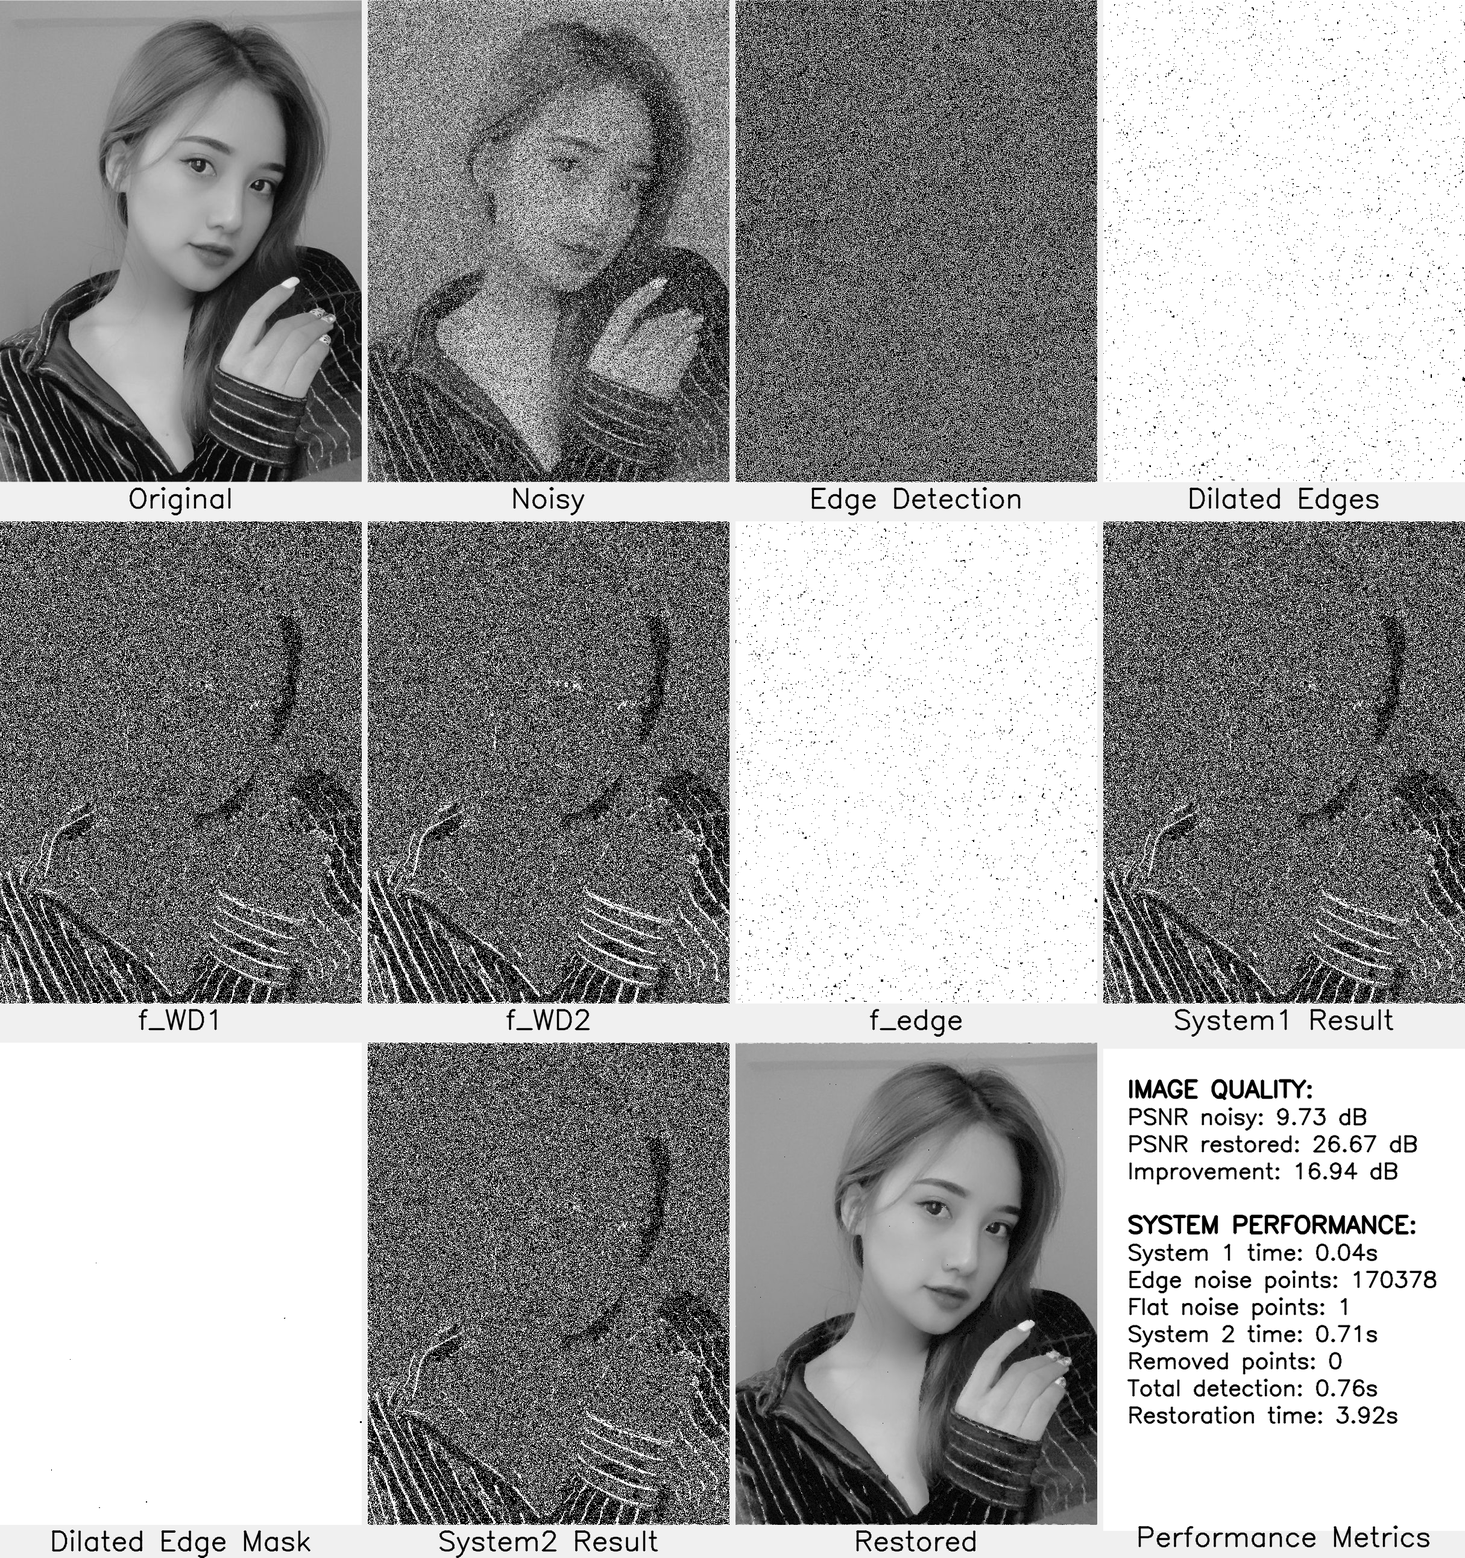
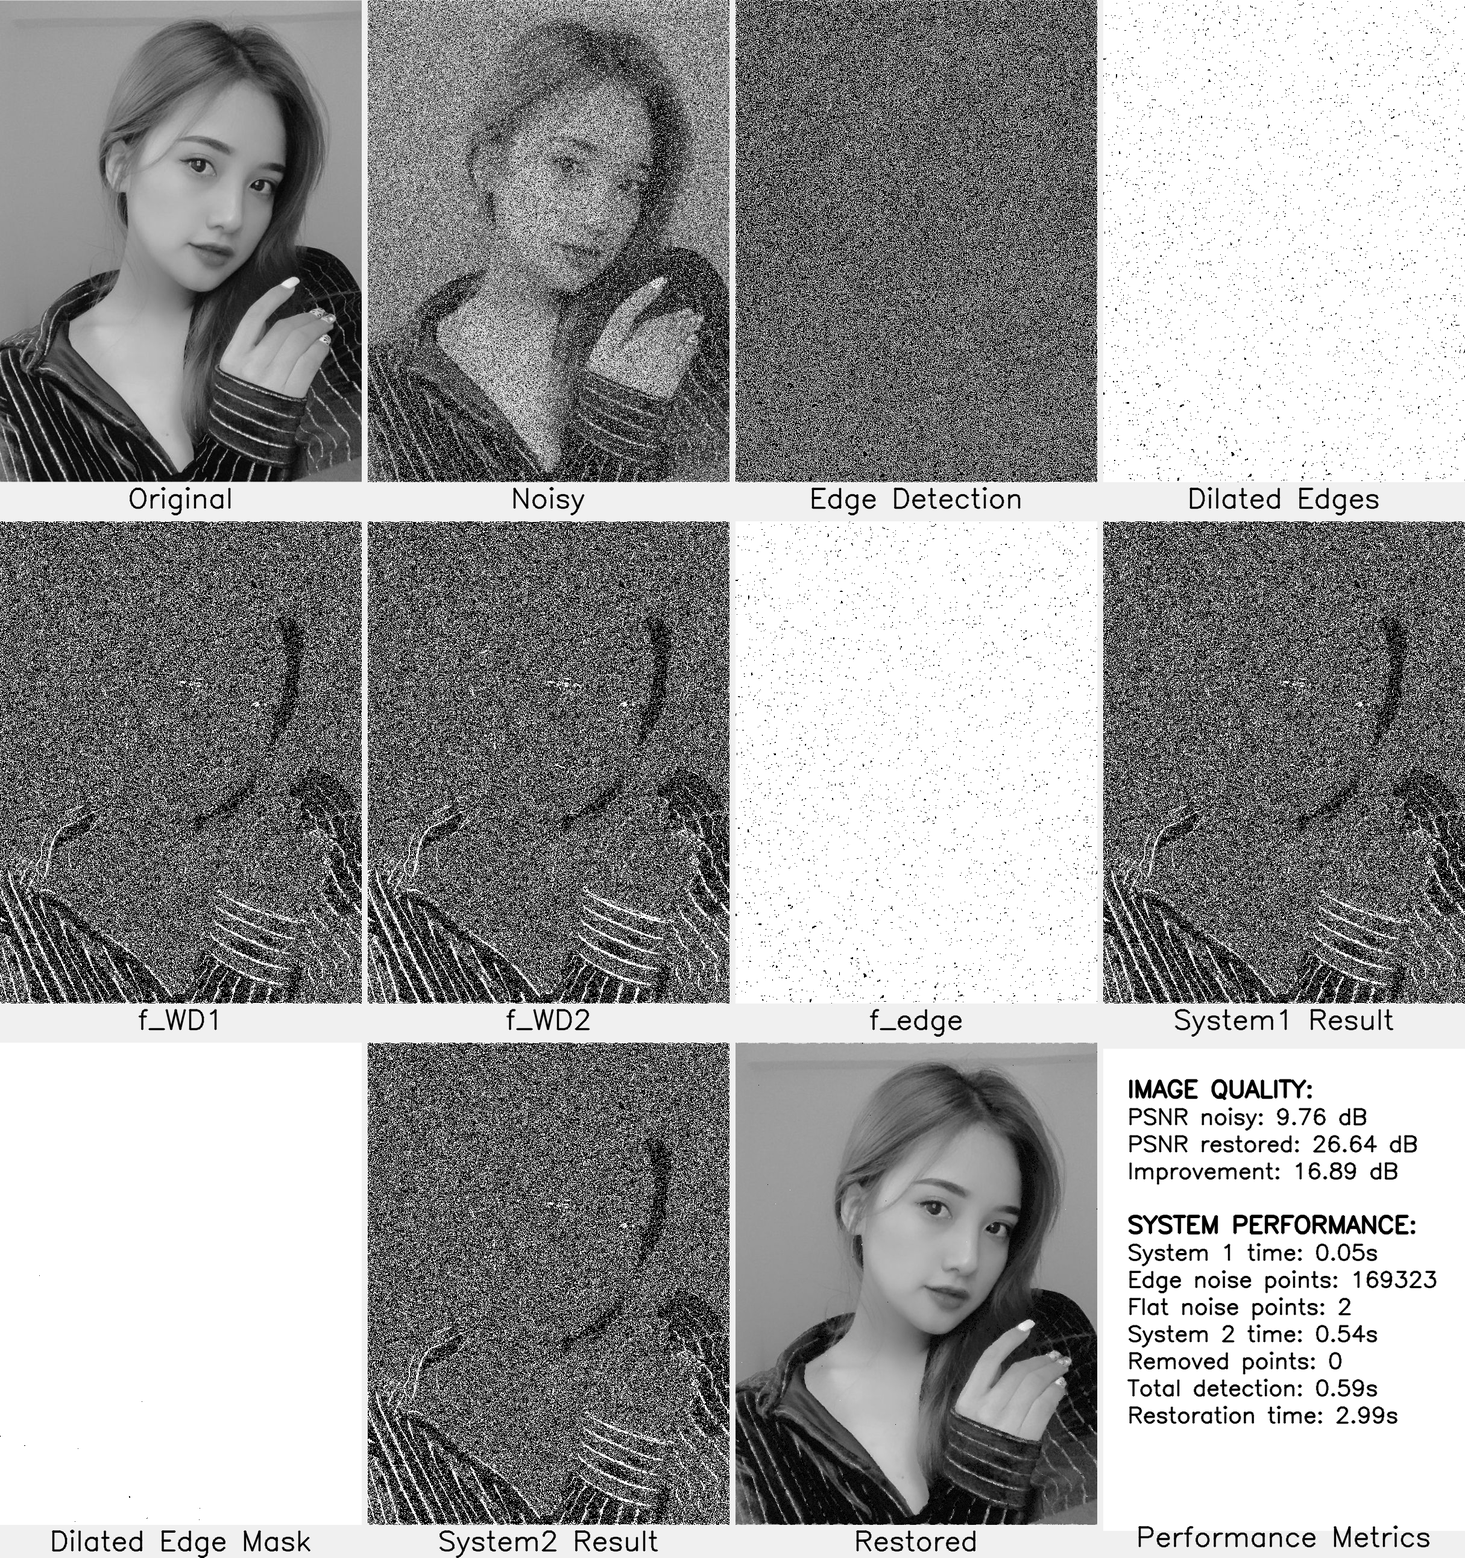
done

diff --git a/bestYYgpuSum.py b/bestYYgpuSum.py
@@ -19,20 +19,27 @@ system_info = {
     'total_detection_time': 0.0, # Thời gian phát hiện tổng thể nhiễu
     'restore_time': 0.0 # Thời gian khôi phục
 }
+
+# Khôi phục ảnh bằng bộ lọc trung vị (ảnh nhiễu - cờ nhiễu sau chạy 2 hệ thống - kích thước cửa sổ)
+#img: ảnh đầu vào (đơn vị la ảnh xám) 
+#noise_flag: cờ nhiễu (1 cho nhiễu, 0 cho không nhiễu)
+#window_size: kích thước cửa sổ (đơn vị là pixel)
 def fast_median_filter(img, noise_flag, window_size):
-    """Áp dụng bộ lọc trung vị tối ưu hóa"""
-    height, width = img.shape
-    half_window = window_size // 2
+    height, width = img.shape # Lấy kích thước ảnh
+    half_window = window_size // 2 # Tính kích thước nửa cửa sổ
     result = img.copy()  # Giữ các pixel không nhiễu nguyên vẹn
     
     # Lấy tọa độ các điểm nhiễu
     noise_points = np.where(noise_flag == 1)
+    # Tạo danh sách tọa độ cho các điểm nhiễu
     noise_coords = list(zip(noise_points[0], noise_points[1]))
     
     for i, j in noise_coords:
         # Xác định vùng cửa sổ
+        # i_min, i_max: giới hạn trên và dưới của hàng
         i_min = max(0, i - half_window)
         i_max = min(height, i + half_window + 1)
+        # j_min, j_max: giới hạn trái và phải của cột
         j_min = max(0, j - half_window)
         j_max = min(width, j + half_window + 1)
         
@@ -43,7 +50,7 @@ def fast_median_filter(img, noise_flag, window_size):
         # Lấy các pixel không nhiễu trong cửa sổ
         good_pixels = window[window_mask == 0]
         
-        # Nếu có pixel tốt, lấy giá trị trung vị
+        # Nếu có pixel tốt, lấy giá trị trung vị từ các pixel đó
         if len(good_pixels) > 0:
             result[i, j] = np.median(good_pixels)
         else:
@@ -52,15 +59,15 @@ def fast_median_filter(img, noise_flag, window_size):
     
     return result
 
-def create_noise_flag(img, filtered_img, threshold):
     """Tạo ảnh cờ nhiễu tối ưu hóa"""
+def create_noise_flag(img, filtered_img, threshold):
     diff = np.abs(img.astype(np.int32) - filtered_img.astype(np.int32))
     noise_flag = np.zeros_like(img, dtype=np.uint8)
     noise_flag[diff >= threshold] = 1
     return noise_flag
 
-def verify_edge_noise(img, f_noise, F_edge, TN, TC, TR, G=255):
     """Xác minh các điểm nhiễu trong vùng biên - phiên bản tối ưu"""
+def verify_edge_noise(img, f_noise, F_edge, TN, TC, TR, G=255):
     # Chuyển sang kiểu int32 để tránh tràn số
     img_int = img.astype(np.int32)
     F_noise = f_noise.copy()
@@ -161,99 +168,143 @@ class ImpulseNoiseDetector:
         # Tính ảnh cờ nhiễu
         return create_noise_flag(img, filtered_img, threshold)
     
-    def _system1(self, img):
+        def _system1(self, img):
         """
-        Triển khai Hệ thống 1 - Phát hiện nhiễu dựa trên ảnh cờ biên (phiên bản tối ưu).
+        Triển khai Hệ thống 1 - Phát hiện nhiễu dựa trên ảnh cờ biên.
+        Hệ thống này phân biệt giữa các vùng biên và vùng phẳng, 
+        sau đó áp dụng các cách phát hiện nhiễu khác nhau cho mỗi vùng.
         """
+        # Ghi lại thời điểm bắt đầu để đo thời gian thực hiện
         start_time = time.time()
         print("Bắt đầu Hệ thống 1...")
         
-        # Khởi tạo các ảnh ban đầu
+        # Lấy kích thước của ảnh đầu vào
         height, width = img.shape
         
-        # Tạo ảnh cờ nhiễu f_WD1 và f_WD2 trực tiếp - tối ưu hóa lớn
+        # BƯỚC 1: Tạo các ảnh cờ nhiễu cho vùng biên và vùng phẳng
         print("Tạo ảnh cờ nhiễu từ hai bộ lọc trung vị...")
+        # f_WD1: ảnh cờ nhiễu cho vùng biên - sử dụng cửa sổ lớn hơn (WD1)
+        # Hàm _create_noise_flag_PSM tạo cờ nhiễu dựa trên Peak-Signal-to-Median (PSM)
         f_WD1 = self._create_noise_flag_PSM(img, self.WD1, self.TD)
+        
+        # f_WD2: ảnh cờ nhiễu cho vùng phẳng - sử dụng cửa sổ nhỏ hơn (WD2)
+        # Phát hiện nhiễu trong vùng phẳng yêu cầu cửa sổ nhỏ hơn để tăng độ nhạy
         f_WD2 = self._create_noise_flag_PSM(img, self.WD2, self.TD)
         
-        # Tạo ảnh cờ biên sử dụng thuật toán Canny
+        # BƯỚC 2: Phát hiện biên trong ảnh
         print("Phát hiện biên bằng phương pháp thay thế...")
+        # Sử dụng thuật toán Canny để phát hiện biên - một thuật toán phát hiện biên phổ biến
+        # Các tham số 50, 150 là ngưỡng thấp và cao cho thuật toán Canny
         edges = cv2.Canny(img, 50, 150)
         
-        # Dãn nở cạnh để bao phủ vùng biên tốt hơn
+        # BƯỚC 3: Dãn nở biên để bao phủ vùng biên tốt hơn
+        # Tạo kernel 3x3 cho phép toán dãn nở
         kernel = np.ones((3, 3), np.uint8)
+        # Dãn nở biên để đảm bảo không bỏ sót các điểm biên
         edges_dilated = cv2.dilate(edges, kernel, iterations=1)
         
-        # Ánh xạ kết quả phát hiện biên sang ảnh cờ biên
+        # BƯỚC 4: Tạo ảnh cờ biên (edge flag)
+        # Ảnh cờ biên là ảnh nhị phân: 1 cho điểm biên, 0 cho điểm không phải biên
         f_edge = np.zeros_like(img, dtype=np.uint8)
+        # Đặt giá trị 1 cho tất cả các điểm trong ảnh đã dãn nở
         f_edge[edges_dilated > 0] = 1
         
-        # Tạo ảnh cờ nhiễu cuối cùng theo phương trình (9)
+        # BƯỚC 5: Kết hợp hai ảnh cờ nhiễu dựa trên ảnh cờ biên
+        # Tạo ảnh cờ nhiễu cuối cùng theo phương trình (9) của thuật toán
         f_noise = np.zeros_like(img, dtype=np.uint8)
-        f_noise[f_edge == 1] = f_WD1[f_edge == 1]  # Vùng biên
-        f_noise[f_edge == 0] = f_WD2[f_edge == 0]  # Vùng phẳng
+        # Đối với vùng biên (f_edge == 1), sử dụng kết quả từ f_WD1
+        f_noise[f_edge == 1] = f_WD1[f_edge == 1]
+        # Đối với vùng phẳng (f_edge == 0), sử dụng kết quả từ f_WD2
+        f_noise[f_edge == 0] = f_WD2[f_edge == 0]
         
-        # Lưu kết quả trung gian
-        self.intermediate_results['edge_detection'] = edges
-        self.intermediate_results['dilated_edges'] = edges_dilated
-        self.intermediate_results['f_WD1'] = f_WD1 * 255  # Nhân với 255 để dễ nhìn
-        self.intermediate_results['f_WD2'] = f_WD2 * 255  # Nhân với 255 để dễ nhìn
-        self.intermediate_results['f_edge'] = f_edge * 255  # Nhân với 255 để dễ nhìn
-        self.intermediate_results['system1_result'] = f_noise * 255  # Nhân với 255 để dễ nhìn
+        # BƯỚC 6: Lưu các kết quả trung gian để hiển thị và đánh giá
+        # Lưu các ảnh với hệ số nhân 255 để dễ nhìn (chuyển từ nhị phân [0,1] sang [0,255])
+        self.intermediate_results['edge_detection'] = edges  # Kết quả phát hiện biên gốc
+        self.intermediate_results['dilated_edges'] = edges_dilated  # Kết quả sau khi dãn nở biên
+        self.intermediate_results['f_WD1'] = f_WD1 * 255  # Cờ nhiễu cho vùng biên
+        self.intermediate_results['f_WD2'] = f_WD2 * 255  # Cờ nhiễu cho vùng phẳng
+        self.intermediate_results['f_edge'] = f_edge * 255  # Cờ biên
+        self.intermediate_results['system1_result'] = f_noise * 255  # Kết quả cuối cùng của Hệ thống 1
+        
+        # Tính thời gian thực hiện và hiển thị
         time_taken = time.time() - start_time
         print(f"Hoàn thành Hệ thống 1 trong {time_taken:.2f} giây")
-        # lưu thời gian hệ thống 1
+        
+        # Cập nhật thông tin thời gian cho mục đích đánh giá hiệu suất
         system_info['system1_time'] = time_taken
+        
+        # Trả về hai kết quả: ảnh cờ nhiễu và ảnh cờ biên để sử dụng trong Hệ thống 2
         return f_noise, f_edge
     
+
     def _system2(self, img, f_noise, f_edge):
-        """
-        Triển khai Hệ thống 2 - Hệ thống xác minh (phiên bản tối ưu).
-        """
+        # Bắt đầu đếm thời gian cho Hệ thống 2
         start_time = time.time()
         print("Bắt đầu Hệ thống 2 - Xác minh kết quả từ Hệ thống 1...")
         
-        # Dãn nở ảnh cờ biên để xác định vùng biên rộng hơn
+        # Tạo kernel 3x3 đặc (toàn 1) để thực hiện phép dãn nở
         kernel = np.ones((3, 3), dtype=np.uint8)
+        
+        # Dãn nở ảnh cờ biên để tạo vùng biên rộng hơn
+        # Mục đích: Tạo một vùng đệm xung quanh biên để đảm bảo không bỏ sót điểm biên
         F_edge = cv2.dilate(f_edge, kernel, iterations=1)
         
-        # Đếm số lượng điểm cần xác minh
+        # Đếm số lượng điểm nhiễu trong vùng biên (điểm được đánh dấu là nhiễu và nằm trong vùng biên)
+        # Sử dụng phép AND logic: (f_noise == 1) & (F_edge == 1)
         num_edge_noise = np.sum((f_noise == 1) & (F_edge == 1))
+        
+        # Đếm số lượng điểm nhiễu trong vùng phẳng (điểm được đánh dấu là nhiễu nhưng không thuộc vùng biên)
+        # Sử dụng phép AND logic: (f_noise == 1) & (F_edge == 0)
         num_flat_noise = np.sum((f_noise == 1) & (F_edge == 0))
-
-        # Lưu số lượng điểm nhiễu
+    
+        # Lưu thông tin số lượng nhiễu vào biến toàn cục để hiển thị trong báo cáo
         system_info['edge_noise_count'] = num_edge_noise
         system_info['flat_noise_count'] = num_flat_noise
+        
+        # Hiển thị thông tin về số lượng nhiễu để theo dõi
         print(f"Có {num_edge_noise} điểm nhiễu trong vùng biên cần xác minh")
         print(f"Có {num_flat_noise} điểm nhiễu trong vùng phẳng để so sánh")
         
-        # Lưu kết quả trung gian
-        self.intermediate_results['dilated_edge_mask'] = F_edge * 255  # Nhân với 255 để dễ nhìn
+        # Lưu kết quả trung gian vào danh sách các ảnh trung gian để hiển thị
+        # Nhân với 255 để chuyển từ ảnh nhị phân [0,1] sang dạng [0,255] dễ nhìn
+        self.intermediate_results['dilated_edge_mask'] = F_edge * 255
         
-        # Sử dụng hàm tối ưu hóa để xác minh điểm nhiễu
+        # Thực hiện xác minh nhiễu bằng hàm verify_edge_noise (đã được tối ưu hóa)
         print("Xác minh các điểm nhiễu bằng phương pháp vector hóa...")
+        
+        # Gọi hàm verify_edge_noise với các tham số:
+        # - img: ảnh gốc
+        # - f_noise: ảnh cờ nhiễu từ Hệ thống 1
+        # - F_edge: ảnh cờ biên đã dãn nở
+        # - self.TN: ngưỡng hiệu cường độ để xác định nhiễu
+        # - self.TC: số lượng tối thiểu điểm nhiễu trong vùng phẳng để so sánh
+        # - self.TR: tỷ lệ điểm cần thỏa mãn để xác minh
         F_noise, removed_count = verify_edge_noise(
             img, f_noise, F_edge,
             self.TN, self.TC, self.TR
         )
         
-        # Lưu kết quả trung gian
-        self.intermediate_results['system2_result'] = F_noise * 255  # Nhân với 255 để dễ nhìn
+        # Lưu kết quả cuối cùng của Hệ thống 2 để hiển thị
+        self.intermediate_results['system2_result'] = F_noise * 255
+        
+        # Hiển thị số lượng điểm nhiễu đã bị loại bỏ sau khi xác minh
         print(f"Hệ thống 2 đã loại bỏ {removed_count} điểm bị phát hiện sai")
+        
+        # Tính toán và hiển thị thời gian thực hiện Hệ thống 2
         time_taken = time.time() - start_time
         print(f"Hoàn thành Hệ thống 2 trong {time_taken:.2f} giây")
-
-        # lưu thời gian hệ thống 2
+    
+        # Lưu thời gian thực hiện và số điểm loại bỏ vào thông tin hệ thống
         system_info['system2_time'] = time_taken
         system_info['removed_count'] = removed_count
-
-        
+    
+        # Trả về ảnh cờ nhiễu sau khi đã được xác minh
         return F_noise
     
+    """
+    Phát hiện nhiễu xung trong ảnh bằng cách kết hợp cả hai hệ thống.
+    """
     def detect(self, img):
-        """
-        Phát hiện nhiễu xung trong ảnh bằng cách kết hợp cả hai hệ thống.
-        """
         start_time = time.time()
         
         # Kiểm tra định dạng ảnh đầu vào
@@ -281,25 +332,24 @@ class ImpulseNoiseDetector:
         system_info['total_detection_time'] = time_taken
         return F_noise
     
+
+        #Khôi phục ảnh bị nhiễu xung
     def restore(self, img_gray_noise, original_img=None):  
-        """
-        Khôi phục ảnh bị nhiễu xung bằng cách sử dụng kết quả phát hiện nhiễu.
-        """
         start_time = time.time()
         print("Bắt đầu quá trình khôi phục ảnh...")
         
         
         # Lưu ảnh gốc
         self.intermediate_results['original'] = original_img
-        # Lưu ảnh gốc
+
         # cv2.imwrite("original.png", self.intermediate_results['original'] )
         
         # Phát hiện nhiễu xung trong ảnh bằng cách kết hợp cả hai hệ thống.
         noise_flag = self.detect(img_gray_noise)
         
         # Sử dụng hàm tối ưu hóa để khôi phục ảnh
+        # Khôi phục ảnh bằng bộ lọc trung vị (ảnh nhiễu - cờ nhiễu sau chạy 2 hệ thống - kích thước cửa sổ)
         print("Áp dụng bộ lọc trung vị tối ưu hóa để khôi phục...")
-        # Khôi phục ảnh bằng bộ lọc trung vị (ảnh nhiễu - cờ nhiễu - kích thước cửa sổ)
         restored_img = fast_median_filter(img_gray_noise, noise_flag, 3)
         
         # Lưu ảnh khôi phục
@@ -413,11 +463,9 @@ class ImpulseNoiseDetector:
             cv2.LINE_AA
         )
 
-
+#Tạo ảnh tổng hợp từ các ảnh trung gian với bố cục tối ưu hơn.
     def create_summary_image(self, noisy_img=None):
-        """
-        Tạo ảnh tổng hợp từ các ảnh trung gian với bố cục tối ưu hơn.
-        """
+        
         # Kiểm tra xem có đầy đủ kết quả không
         required_keys = ['original', 'system1_result', 'system2_result', 'restored']
         if not all(key in self.intermediate_results for key in required_keys):
@@ -506,15 +554,21 @@ class ImpulseNoiseDetector:
                 )
         
         return summary_img
+    
 
 
+#Thêm nhiễu muối tiêu (salt-and-pepper) vào ảnh - phiên bản tối ưu hóa
+#salt_prob: xác suất cho nhiễu muối (giá trị 255)
+#pepper_prob: xác suất cho nhiễu tiêu (giá trị 0)
 def add_salt_pepper_noise(img, salt_prob, pepper_prob):
-    """Thêm nhiễu muối tiêu (salt-and-pepper) vào ảnh - phiên bản tối ưu hóa"""
     noisy_img = img.copy()
     height, width = img.shape
     
     # Tạo mặt nạ ngẫu nhiên
+    #salt_mask: mặt nạ cho nhiễu muối (giá trị 255)
     salt_mask = np.random.random((height, width)) < salt_prob
+
+    #pepper_mask: mặt nạ cho nhiễu tiêu (giá trị 0)
     pepper_mask = np.random.random((height, width)) < pepper_prob
     
     # Áp dụng mặt nạ
@@ -524,19 +578,19 @@ def add_salt_pepper_noise(img, salt_prob, pepper_prob):
     return noisy_img
 
 
-def process_image(input_path, output_dir, noise_level=0.3):
-    """
-    Xử lý ảnh đầu vào và tạo ảnh tổng hợp.
-    
-    Parameters:
-    -----------
-    input_path : str
-        Đường dẫn đến ảnh đầu vào
-    output_dir : str
-        Thư mục để lưu ảnh đầu ra
-    noise_level : float
-        Mức độ nhiễu (0.0-1.0)
-    """
+'''
+Xử lý ảnh đầu vào và tạo ảnh tổng hợp.
+
+Parameters:
+-----------
+input_path : str
+    Đường dẫn đến ảnh đầu vào
+output_dir : str
+    Thư mục để lưu ảnh đầu ra
+noise_level : float
+    Mức độ nhiễu (0.0-1.0)
+'''
+def process_image(input_path, output_dir, noise_level=0.2):
     # Đọc ảnh
     img = cv2.imread(input_path, cv2.IMREAD_GRAYSCALE)
     if img is None:
@@ -545,6 +599,7 @@ def process_image(input_path, output_dir, noise_level=0.3):
     
     # Lấy tên file
     file_name = os.path.basename(input_path)
+
     # Lấy tên file không có phần mở rộng
     name_without_ext = os.path.splitext(file_name)[0]
     
@@ -552,12 +607,19 @@ def process_image(input_path, output_dir, noise_level=0.3):
     os.makedirs(output_dir, exist_ok=True)
     
     print(f"Xử lý ảnh: {file_name} (kích thước: {img.shape})")
-    # thêm anh gốc vào ảnh đầu ra
+
     # Tạo ảnh nhiễu
     print(f"Tạo ảnh nhiễu với {noise_level*100:.0f}% nhiễu dương và {noise_level*100:.0f}% nhiễu âm...")
     noisy_img = add_salt_pepper_noise(img, noise_level, noise_level)
     
     # Khởi tạo bộ phát hiện nhiễu
+    # Các tham số cho bộ phát hiện nhiễu
+    # WE1, WE2, TE: Kích thước cửa sổ và ngưỡng cho hệ thống 1
+    # WD1, WD2, TD: Kích thước cửa sổ và ngưỡng cho hệ thống 2
+    # TN: Ngưỡng cho số lượng điểm nhiễu trong vùng biên
+    # TC: Ngưỡng cho số lượng điểm trong vùng phẳng của hệ thống 2
+    # TR: Tỷ lệ cho phép để xác minh điểm nhiễu
+
     detector = ImpulseNoiseDetector(
         WE1=5, WE2=7, TE=10,
         WD1=7, WD2=9, TD=30,
@@ -599,11 +661,8 @@ def process_image(input_path, output_dir, noise_level=0.3):
     
     return True
 
-
-def process_directory(input_dir, output_dir, noise_level=0.3):
-    """
-    Xử lý tất cả ảnh trong thư mục.
-    """
+# Xử lý tất cả ảnh trong thư mục
+def process_directory(input_dir, output_dir, noise_level=0.2):
     # Lấy danh sách các file ảnh
     image_extensions = ['.jpg', '.jpeg', '.png', '.bmp', '.tif', '.tiff']
     image_files = []
@@ -625,10 +684,10 @@ def process_directory(input_dir, output_dir, noise_level=0.3):
 
 
 def main():
-    """Hàm chính"""
+    # parse : tham số đầu vào
     parser = argparse.ArgumentParser(description='Phục hồi ảnh nhiễu xung')
     parser.add_argument('input', help='Đường dẫn đến ảnh hoặc thư mục chứa ảnh')
-    parser.add_argument('-o', '--output', default='outputs', help='Thư mục đầu ra (mặc định: results)')
+    parser.add_argument('-o', '--output', default='outputs', help='Thư mục đầu ra')
     parser.add_argument('-n', '--noise', type=float, default=0.2, help='Mức độ nhiễu')
     
     args = parser.parse_args()
